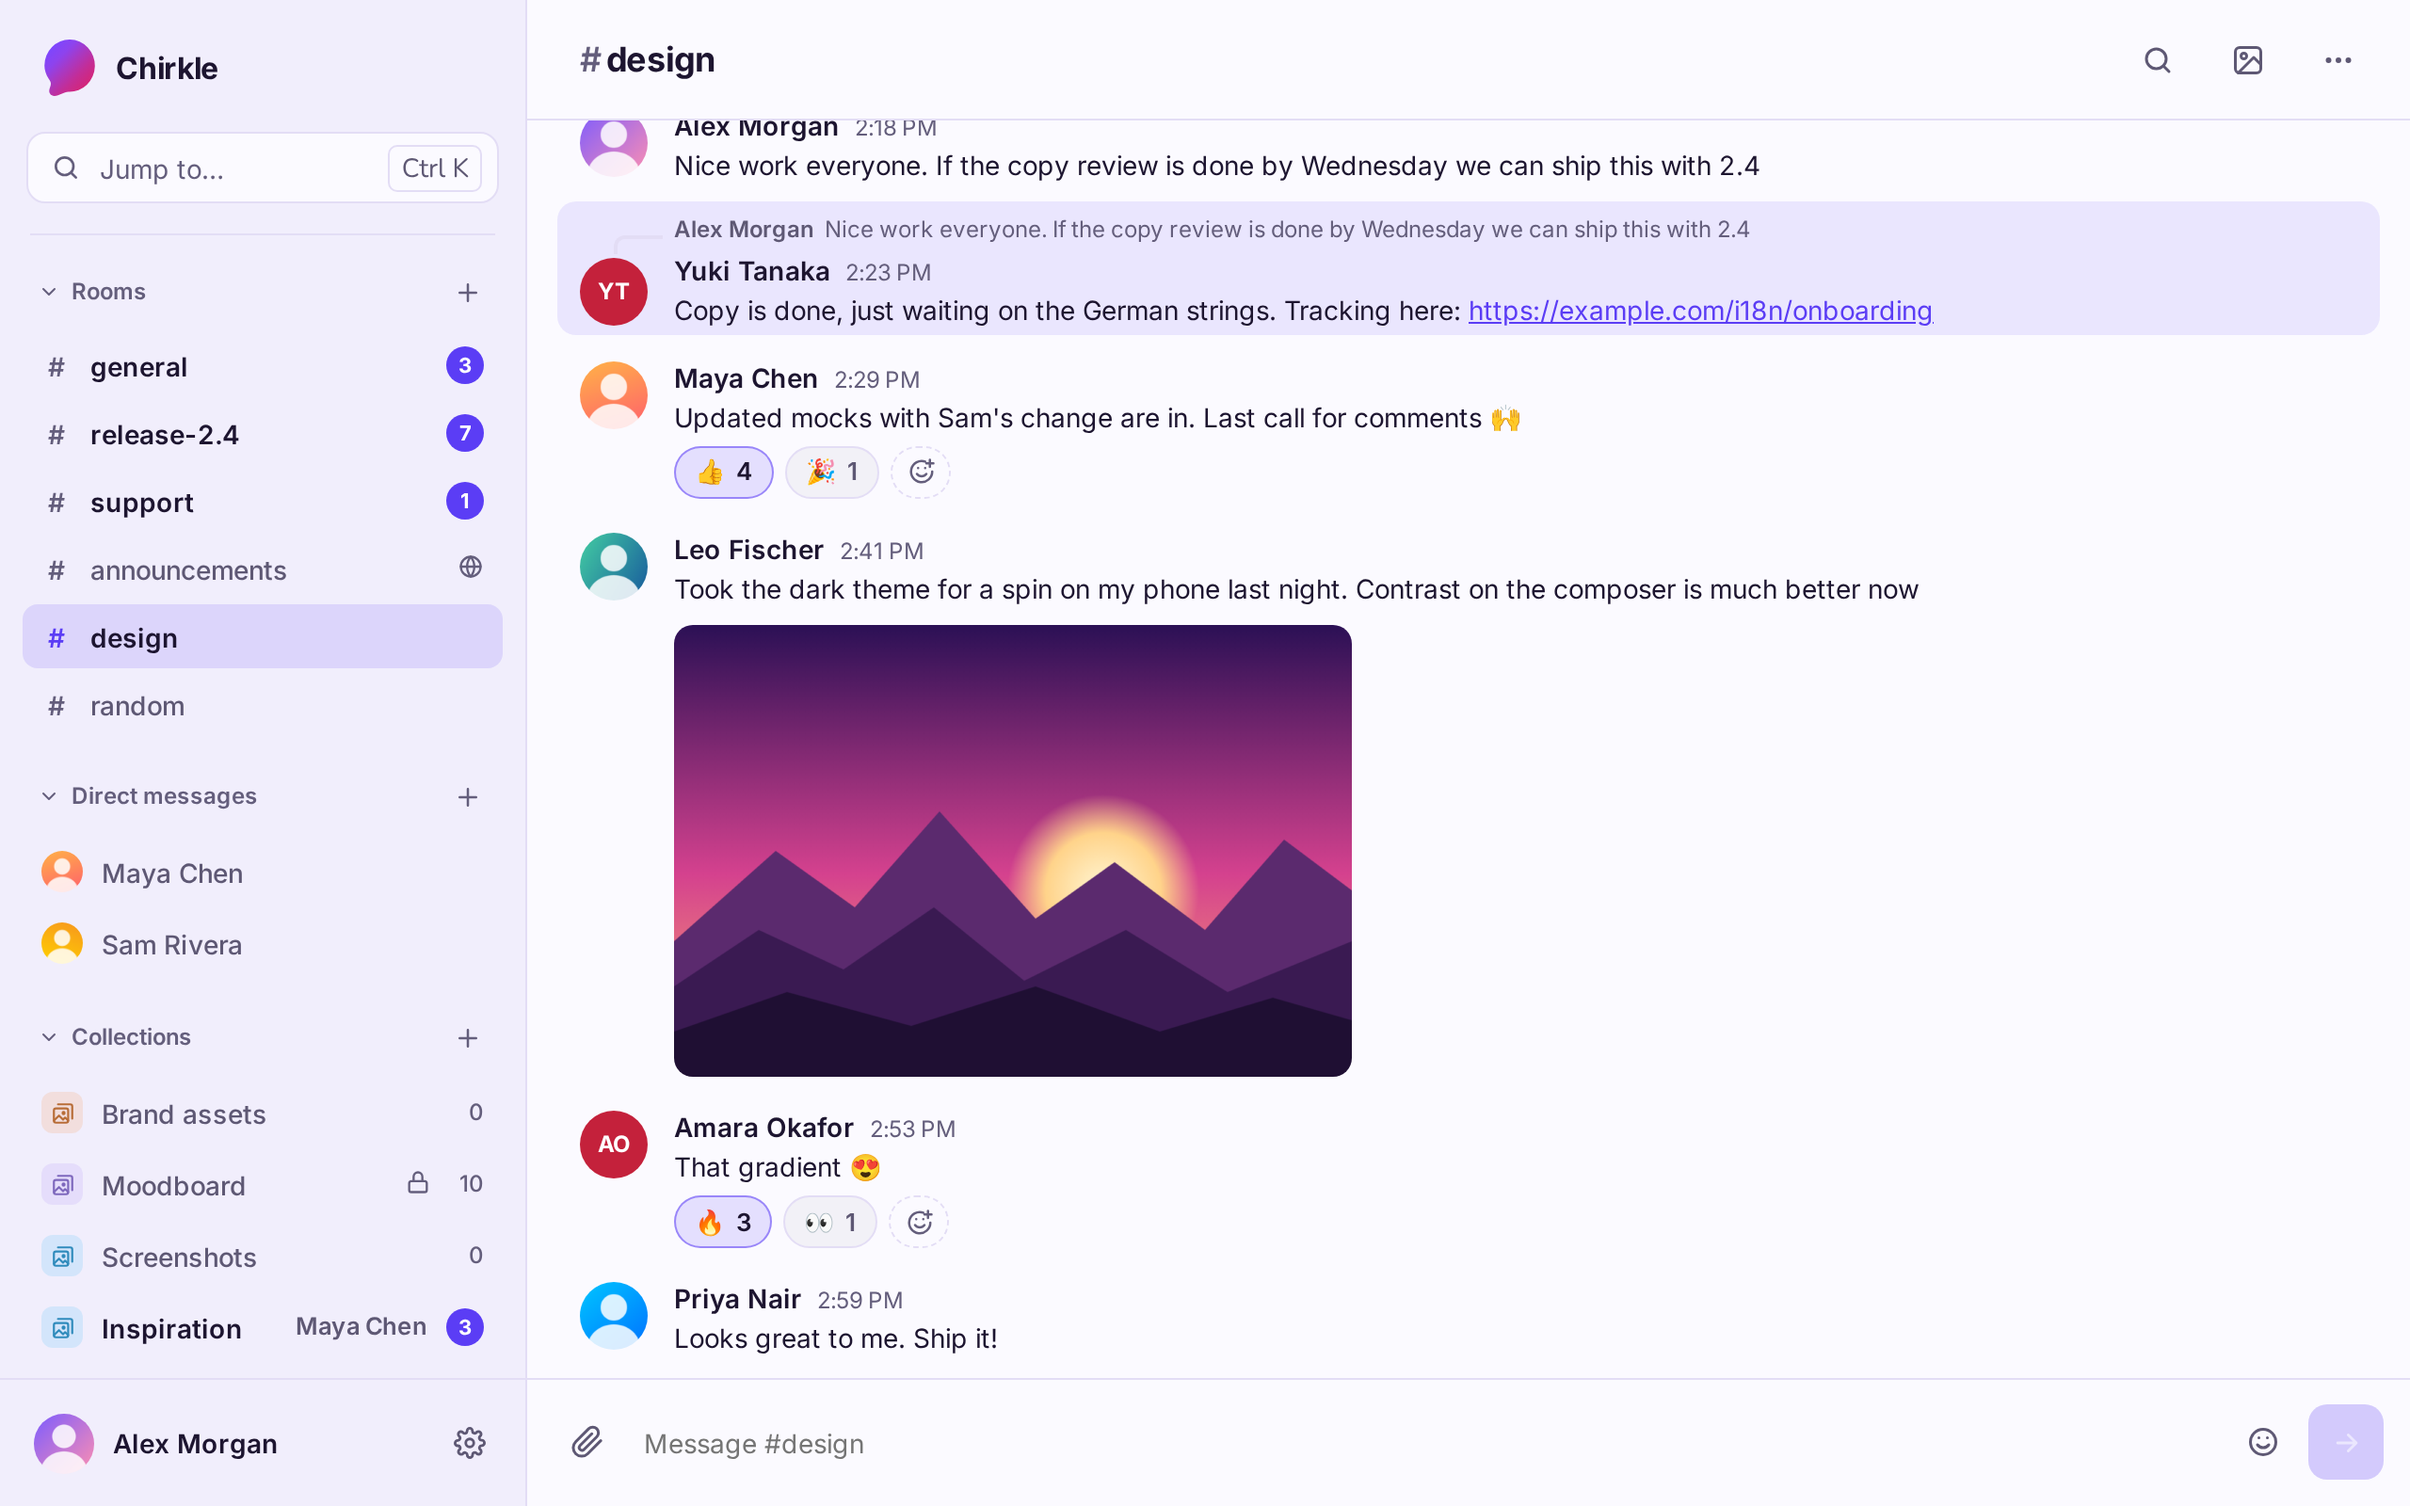
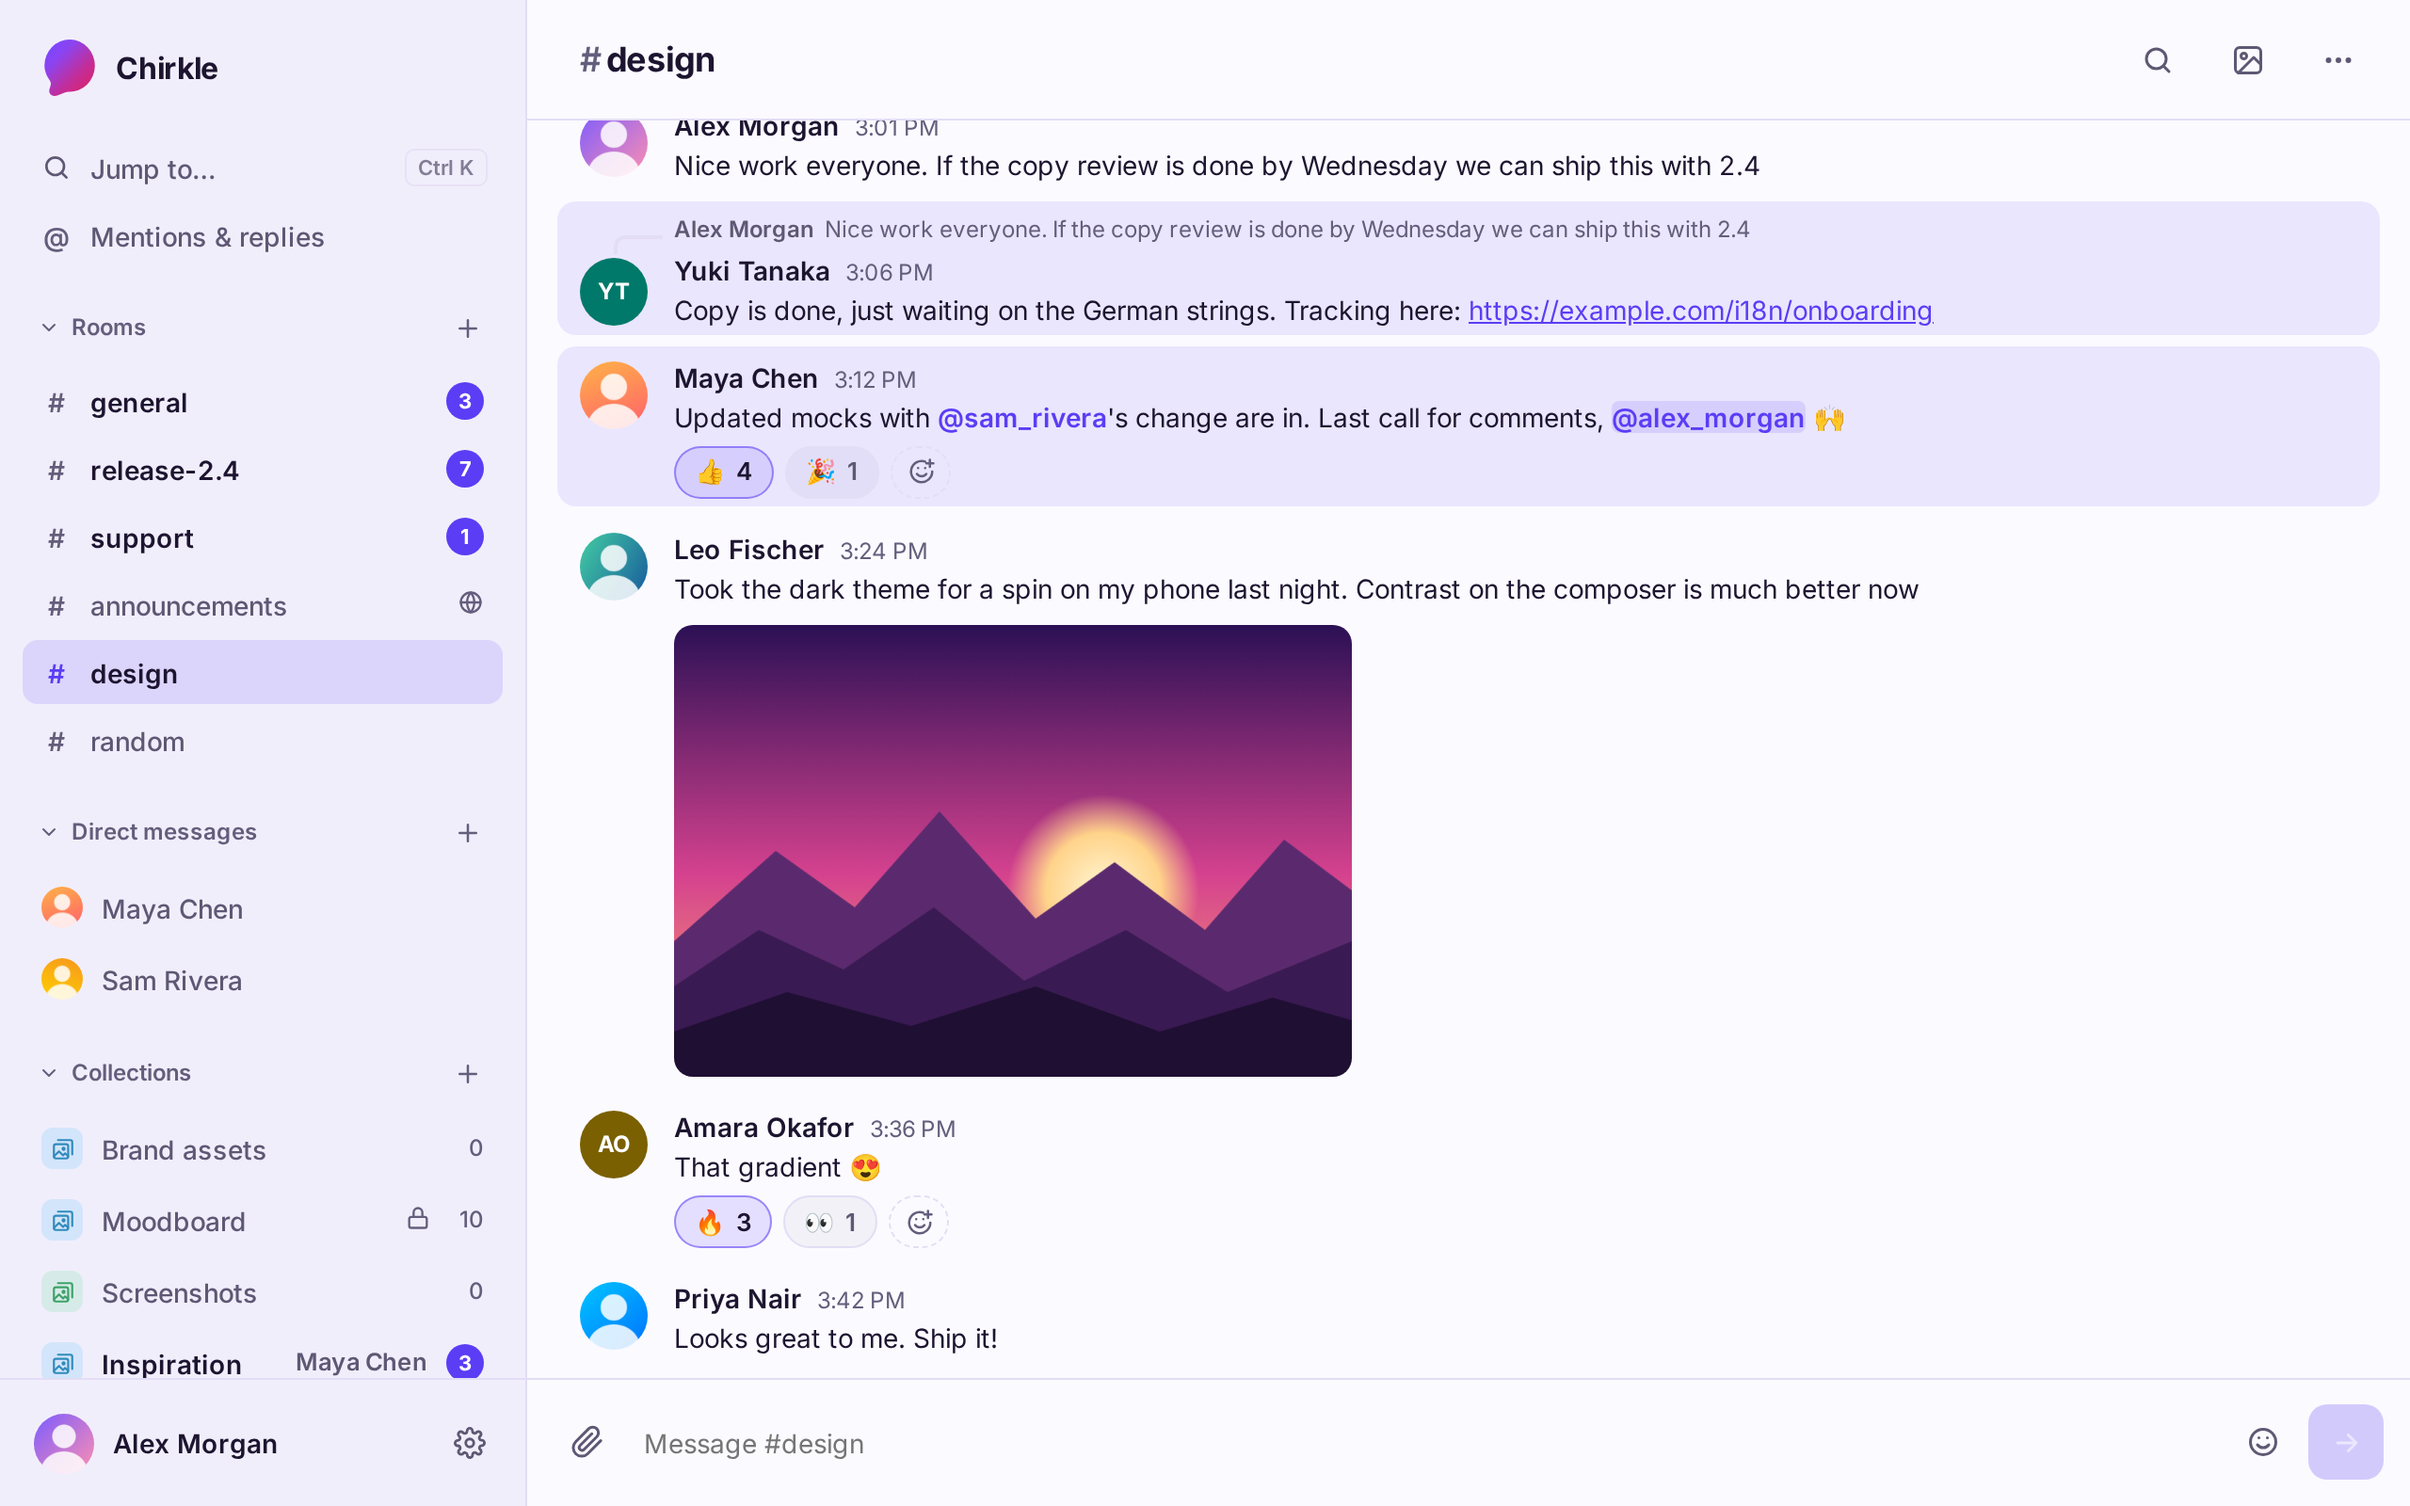
Update readme

diff --git a/scripts/screenshots.ts b/scripts/screenshots.ts
@@ -79,7 +79,7 @@ const DESIGN: Line[] = [
   {
     by: "maya",
     ago: 33,
-    text: "Updated mocks with Sam's change are in. Last call for comments 🙌",
+    text: "Updated mocks with @sam_rivera's change are in. Last call for comments, @alex_morgan 🙌",
     reactions: [
       ["👍", ["leo", "sam", "yuki", "alex"]],
       ["🎉", ["priya"]],

diff --git a/README.md b/README.md
@@ -2,12 +2,12 @@
 
 A small, fast, real-time group chat. One [PocketBase](https://pocketbase.io) binary is the whole backend
 (auth, data, realtime, static files); the frontend is vanilla TypeScript bundled by esbuild — no framework,
-~49 KB of JS and ~11 KB of CSS gzipped (`npm run build` fails over its budget: 49.75 KB of JS,
-11.25 KB of CSS; rarer screens such as the image viewer, search, room access and collections load on first use).
+~47 KB of JS and ~11 KB of CSS gzipped (`npm run build` fails over its budget: 49.75 KB of JS,
+11.3 KB of CSS; rarer screens such as the image viewer, search, room access, collections, the emoji picker and Mentions & replies load on first use).
 
 <picture>
   <source media="(prefers-color-scheme: dark)" srcset="docs/screenshot-dark.png">
-  <img alt="A room in Chirkle: the room list with unread counts on the left; messages with avatars, a reply, a photo and emoji reactions on the right" src="docs/screenshot-light.png">
+  <img alt="A room in Chirkle: the room list with unread counts on the left; messages with avatars, a reply, an @mention of you, a photo and emoji reactions on the right" src="docs/screenshot-light.png">
 </picture>
 
 - Runs on a $5 VPS (1 vCPU, 1 GB of RAM): about 500 people online at a normal pace, or 100 chatting nonstop
@@ -21,8 +21,14 @@ A small, fast, real-time group chat. One [PocketBase](https://pocketbase.io) bin
 - Avatars (or colored initials) and a profile page to change your picture, display name (unique) and password, and to log out
 - Search in any room or DM: every word you type, in any case ("привет" finds "Привет"), newest first; pick a result to go to it, however far back
 - Replies: answer any message with a quote of it; click the quote to jump to the original, however far back
+- Handles and @mentions: everyone has an @handle (made from their name, changeable in Settings); type "@" in the
+  composer to pick someone. A message that mentions you is highlighted and notifies you like a reply, and rooms with
+  unread mentions or replies show an "@" by their count
+- Mentions & replies: one page, right under Jump to, of every mention of you, reply to you and reaction to your
+  messages, newest first; each opens its message in its room
 - Links in messages are clickable and open in a new tab (http, https and www. addresses only)
-- Emoji: a picker in the composer, and reactions on any message (as many different ones as you like), live for everyone
+- Emoji: a picker in the composer with search by name, ":name" suggestions as you type, and reactions on any message
+  (as many different ones as you like), live for everyone
 - Attachments: up to 10 files of 20 MB per message, with an upload progress bar; images shown as thumbnails and videos as their first frame (4 tiles, then "+N"); files are private to whoever can read the message
 - Image viewer: click a thumbnail to see it full size (or a video to play it) and step through the room's images and videos (buttons, arrow keys, swipe);
   loaded only when first used, so it adds nothing to the page's first load
@@ -31,6 +37,11 @@ A small, fast, real-time group chat. One [PocketBase](https://pocketbase.io) bin
 - Unread counts on every room and DM, live, and in sync across your tabs and devices; the total shows in the tab's favicon and title;
   a room with unread messages opens at the first of them, under a "New" line
 - What you were typing is kept per room, even across a reload; "Jump to latest" whenever you are scrolled up
+- Moderators, chosen by the admin: they delete anyone's messages, change any room's access, archive rooms, and ban or
+  unban people (a banned account can't log in); DMs and private rooms they aren't in stay out of their reach
+- Usage statistics at `/stats` for moderators and the admin: people online now, messages and active people over
+  time, no names (the admin can turn collecting them off)
+- Anonymous rooms, set by the admin: messages show the room's name instead of their authors
 - Your own branding (title and logo) and, if you like, invite-only signups: set by the admin in PocketBase
 - Forgot password: once the admin sets up email, "Forgot password?" on the login page (web and Android) emails a link
   that sets a new password and logs out every device
@@ -212,6 +223,11 @@ are shown in the app bar, on the login page and in the tab's title. Tick `invite
 only people who have the code sign up (they enter it on the Sign up form; it is case-sensitive). Change the code to stop
 the old one working; leave it empty to close signups. Existing accounts are unaffected, and you can still create
 accounts yourself under *Collections → users*.
+
+**Moderators and statistics:** in the admin UI, *Collections → users*, tick `moderator` on someone's record. They
+then delete messages, change room access, archive rooms and ban people from the app (`banned` on the same record
+undoes a ban), and find usage statistics on Settings; superusers signed in to the admin UI open `/stats` directly.
+Tick `no_stats` on the *site* record to stop recording them.
 
 **Forgot password:** in the admin UI, set *Settings → Application → Application URL* to the server's public
 address (the emailed link starts with it) and the sender under *Settings → Mail settings*, and turn on *Use SMTP
